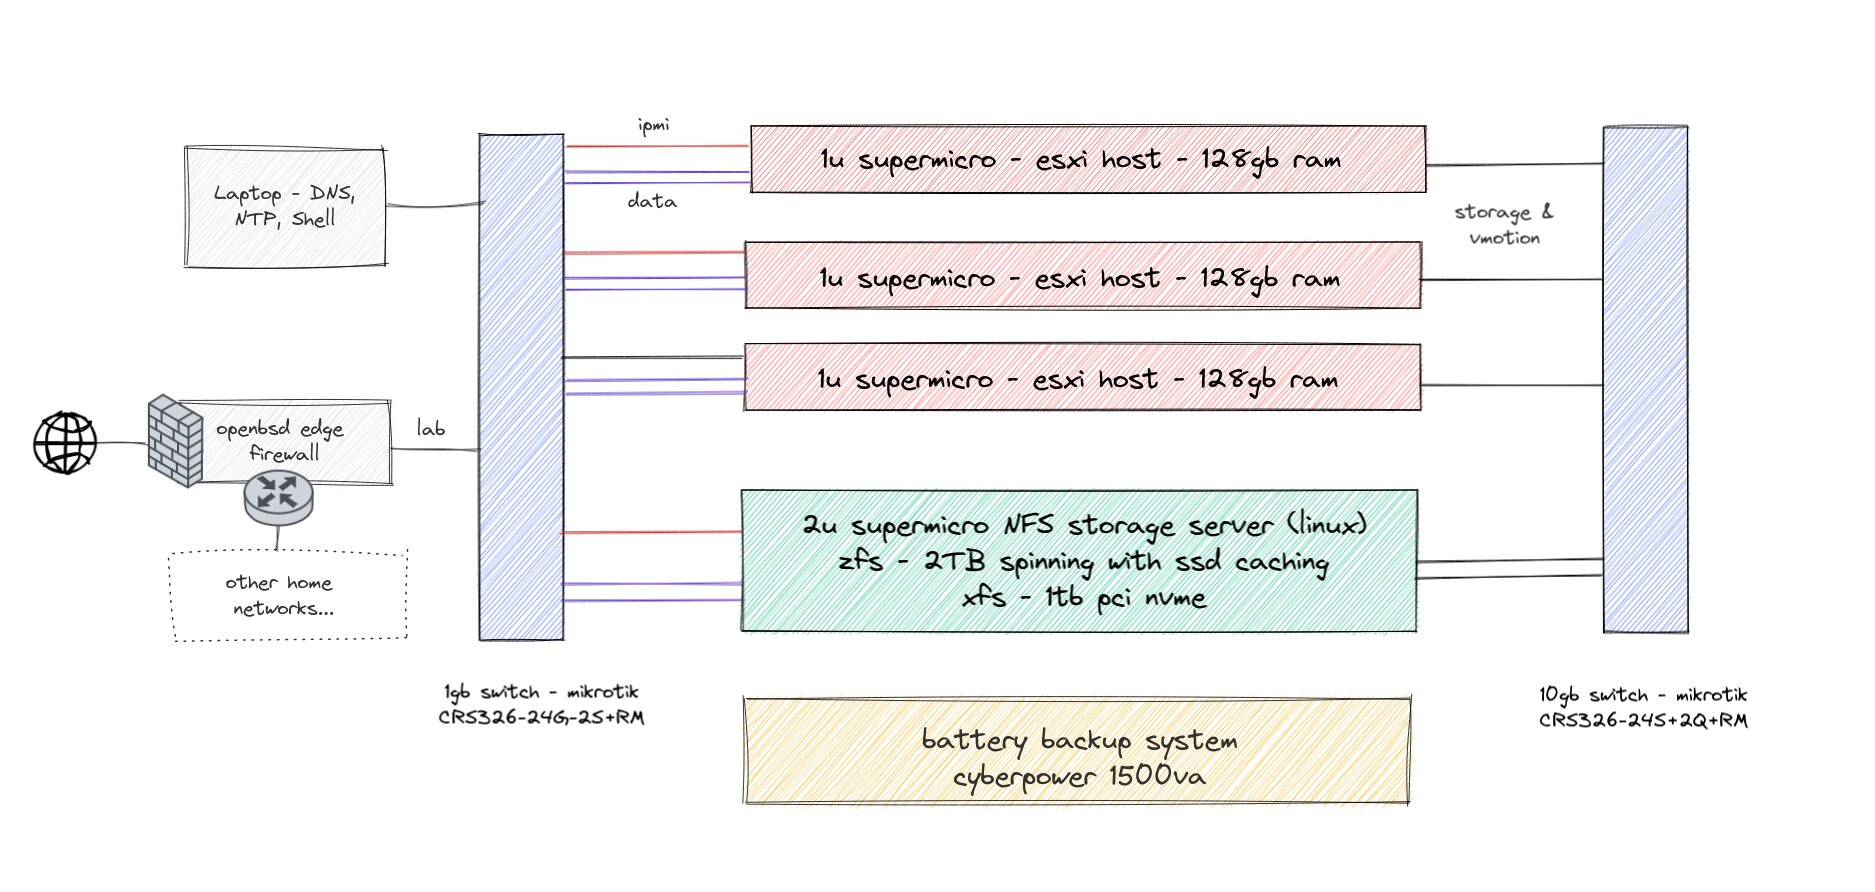
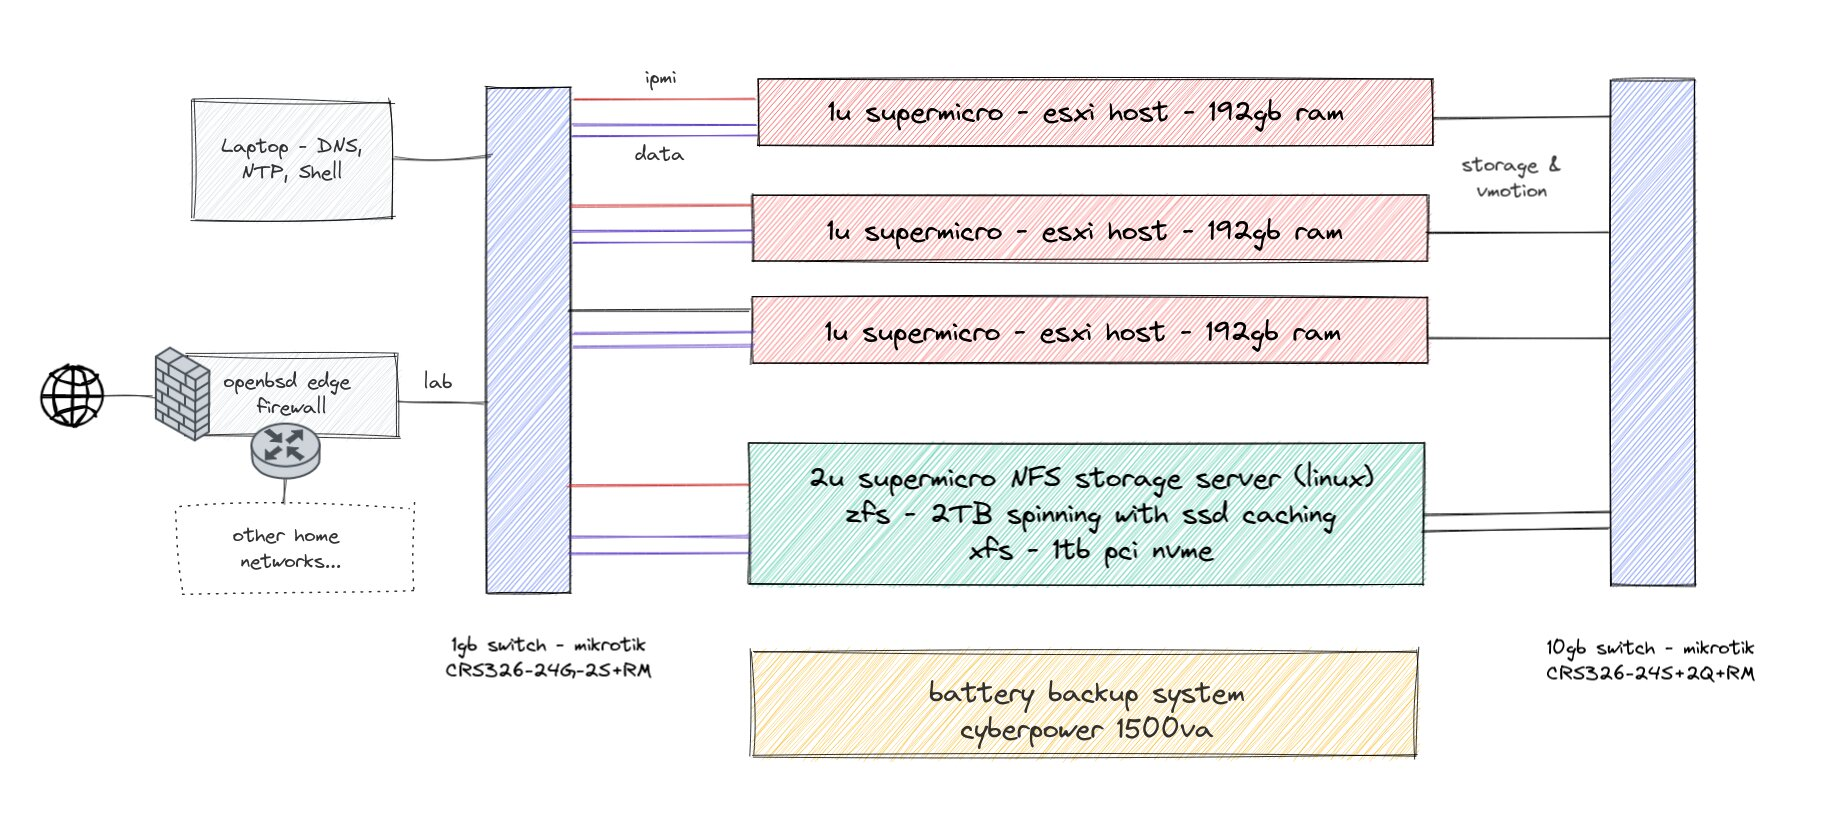
update ram

Changed region(s): [[0.0, 0.0908, 0.9354, 0.7264], [0.2183, 0.7567, 0.7795, 0.9383], [0.8107, 0.7567, 0.9666, 0.8475]]

diff --git a/_posts/2022-06-06-homelab.md b/_posts/2022-06-06-homelab.md
@@ -15,7 +15,7 @@ I've got (what I think) is a fairly substantial, though definitely aging, homela
 
 Current setup:
 
-* 3x ESXI hosts - each are a 1U Supermicro server with 128GB memory on a X9DRI-LN4F+ motherboard
+* 3x ESXI hosts - each are a 1U Supermicro server with 192GB memory on a X9DRI-LN4F+ motherboard
 * 1x Network storage server - A 2U Supermicro, 64GB of memory, X9DRI-LN4F+ motherboard
 * Intel Xeon CPU E5-2650 2.00GHz CPUs (old!)
 * 1x Mikrotik 24 port CRS326-24S+2Q+RM
@@ -174,7 +174,7 @@ All these servers and switches are installed into a medium sized enclosed rack t
 * vSphere with Tanzu, using NSX Advanced Loadbalancer (AVI)
 * Tanzu Kubernetes Grid - internet restricted and non-restricted deployments
 * Many Kubernetes clusters (thanks to TKG and vSphere with Tanzu)
-* [Used to run NSX](https://serverascode.com/2020/07/20/vsphere-7-with-kubernetes-nsxt-3.html) but it's currently not deployed in this version lab
+* [Used to run NSX](https://serverascode.com/2020/07/20/vsphere-7-with-kubernetes-nsxt-3.html), but it's currently not deployed in this version of the lab
 
 ## Conclusion
 
